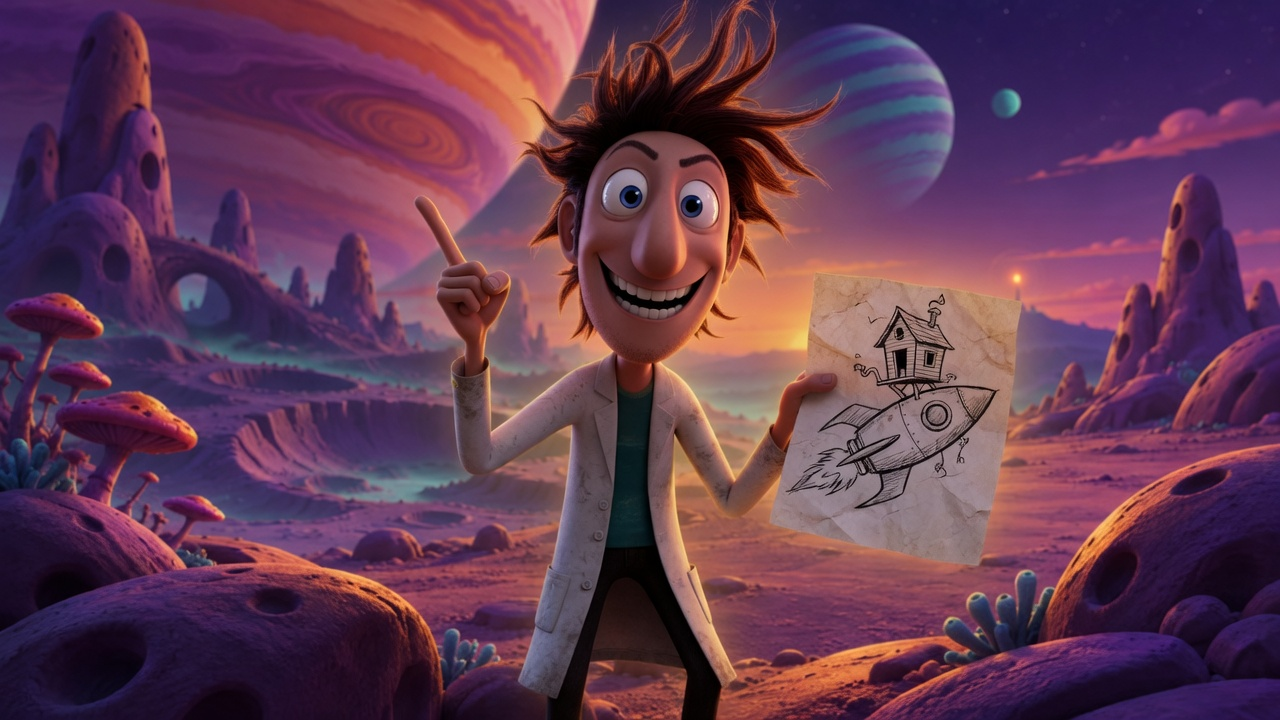
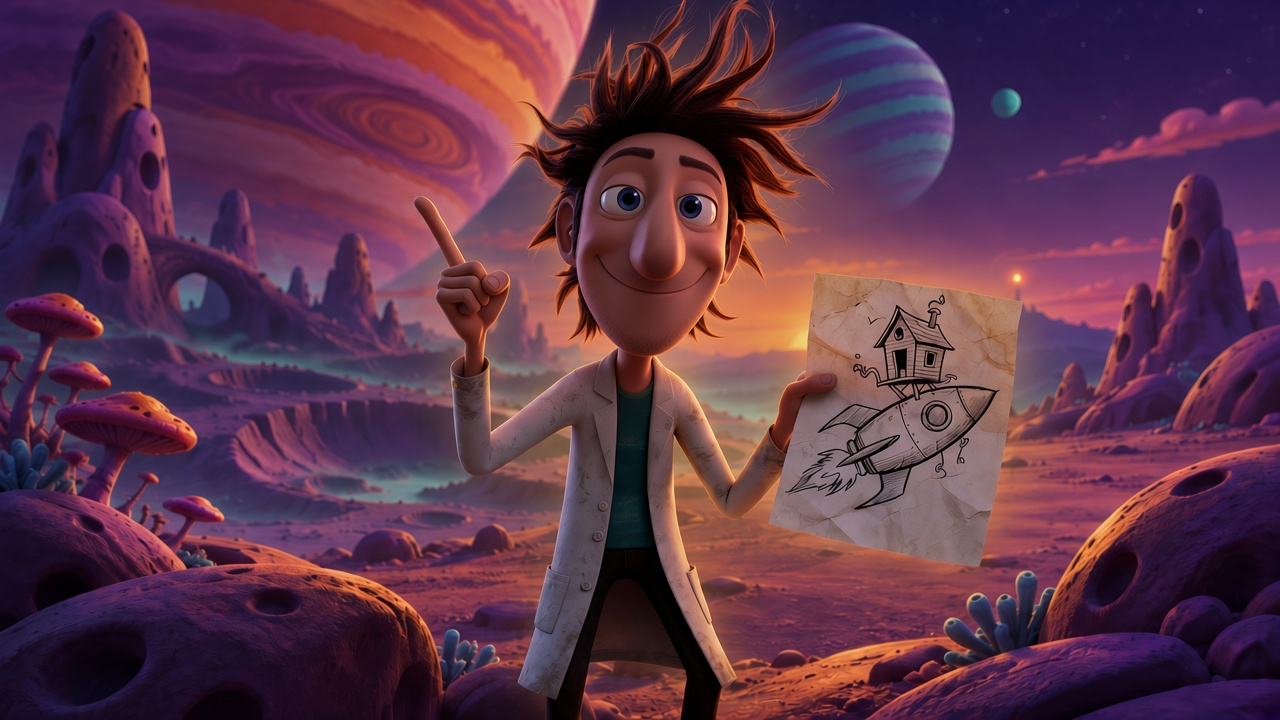
video: restage lab, flyer, and confident smile from PR review
Replace the outdoor workbench with a round indoor lab, swap the lander for a small homemade flyer, and soften the overconfident grin.

diff --git a/pitch/odyssey-of-meat-a-roid/index.html b/pitch/odyssey-of-meat-a-roid/index.html
@@ -334,8 +334,8 @@
         </section>
 
         <section class="scene" id="s5" aria-label="What we will build">
-          <img class="plate" id="plateBench" alt="The inventor assembles the plan at a workbench">
-          <img class="plate" id="plateLaunch" alt="The inventor prepares to launch toward home">
+          <img class="plate" id="plateBench" alt="The inventor assembles the plan in his round laboratory">
+          <img class="plate" id="plateLaunch" alt="The inventor stands by a small homemade flyer, ready for home">
           <div class="scrim-left" id="benchScrim"></div>
           <div class="miles" id="miles">
             <div class="kicker">Hackathon implementation plan</div>

diff --git a/pitch/odyssey-of-meat-a-roid/ASSETS.md b/pitch/odyssey-of-meat-a-roid/ASSETS.md
@@ -14,11 +14,11 @@ The inventor is the human on the right of `assets/reference/ref-crop.png`: wild 
 | `assets/world-wide.jpg` | Wide alien plain. Inventor small on the right, coat and hair readable. Giant planets overhead. | 4–8s, and dim behind the console |
 | `assets/look-camera.jpg` | Medium close-up, he stares into the lens. Alien world soft behind him. | 8–11s, and the co-op reaction |
 | `assets/device.jpg` | He crouches over a battered handheld with a cyan screen. Full plain behind him. | 11–15s |
-| `assets/confident.jpg` | Excessive confidence, pointing up, crumpled rocket-and-house sketch in the other hand. | 15–20s, and the co-op grin |
+| `assets/confident.jpg` | Pointing up with a small proud smile, crumpled rocket-and-house sketch in the other hand. | 15–20s, and the co-op grin |
 | `assets/fail-face.jpg` | Comic close-up after a harmless miss. Dust puff, huge eyes, no injury. | 32–36s |
 | `assets/capable.jpg` | Calmer, coat sleeves rolled, holding an abstract cyan map. Open sky on the left for titles. | 45–57s |
-| `assets/workbench.jpg` | At the bench on the right, pencil in hand, small lander and blank-looking plans. Open valley on the left. | 57–70s |
-| `assets/launch.jpg` | Beside the little lander, looking up toward a bright star. | 69–73s |
+| `assets/workbench.jpg` | Indoor round lab. Inventor on the right with a pencil. Central console, monitor walls, cables, pink doorway. Quieter floor on the left for the milestone cards. | 57–70s |
+| `assets/launch.jpg` | Beside a small homemade flyer with a glass cockpit, short wings, and a roof dome, looking up toward a bright star. | 69–73s |
 | `assets/alien-world.png` | Environment plate without the inventor. Spare background. | Not required on screen |
 | `assets/narration.mp3` | Optional Egyptian Arabic voice-over, about 85 seconds. | After Start |
 | `assets/team-01.jpg` … `team-06.jpg` | Real portraits. Not generated. | 73–85s |
